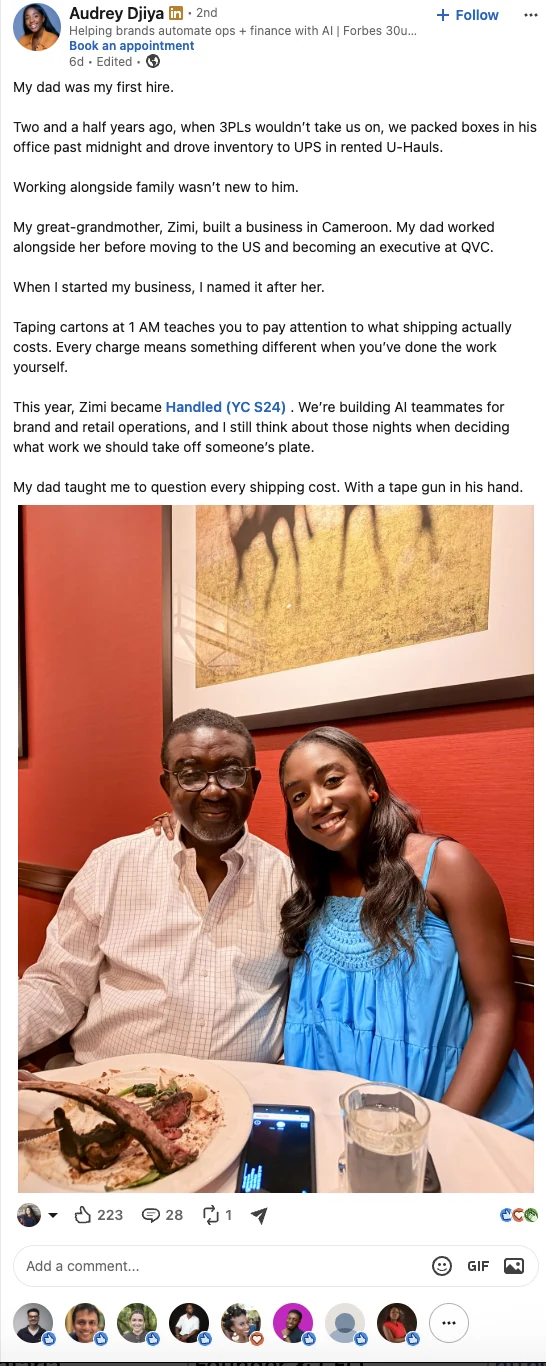
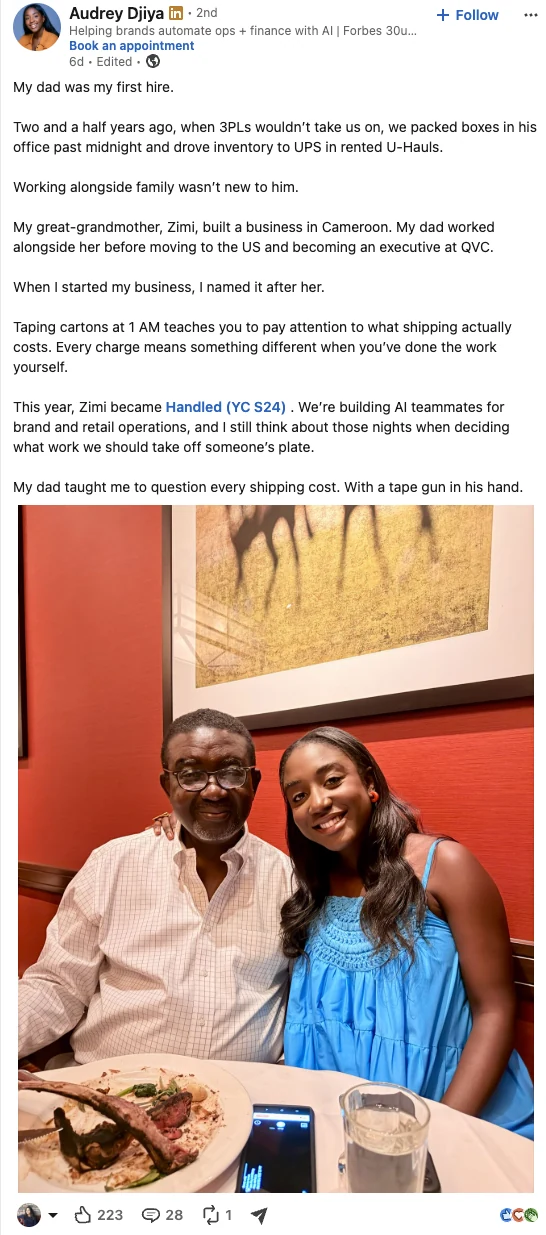
Leeroo page: restore doc copy, tighter post screenshots
Claude-Session: https://claude.ai/code/session_01GFJDcdEwhaC3mF1JBPngzg

diff --git a/leeroo.html b/leeroo.html
@@ -71,7 +71,8 @@ figcaption a{font-weight:700;color:var(--ink)}
 .two{display:grid;grid-template-columns:repeat(2,minmax(0,1fr));gap:24px}
 .two figure{margin-top:28px}
 
-.posts{display:grid;grid-template-columns:repeat(3,minmax(0,1fr));gap:20px;align-items:start;margin-top:32px}
+.posts{display:grid;grid-template-columns:repeat(3,minmax(0,1fr));gap:12px;align-items:start;max-width:860px;margin:28px auto 0}
+.posts figcaption{margin-top:8px;font-size:15px}
 .posts figure{margin:0}
 .posts img{border-radius:8px}
 .months{display:grid;grid-template-columns:repeat(3,minmax(0,1fr));gap:18px;margin-top:28px}
@@ -129,13 +130,13 @@ footer a{color:var(--muted)}
 <section class="letter">
   <div class="wrap narrow note">
     <p class="hey">Hey Majid,</p>
-    <p>It was great chatting last week and thanks for walking us through Leeroo. Honestly the telecom project is super impressive, especially how much you guys got done and how fast.</p>
-    <p>I think the big thing right now is landing 2 to 3 more enterprise customers with similar problems. That’s how we figure out who’s actually buying, which use cases land and what messaging works, so the telecom deal isn’t a one-off.</p>
-    <p>Here’s roughly how Khaled and I would think about the next 90 days. Nothing here is set in stone, we’ll learn a ton as we go and adjust.</p>
+    <p>Great chatting last week, and thanks for walking us through Leeroo. The telecom project is impressive, especially the scope of the work and how quickly you delivered it.</p>
+    <p>I think the next step is finding 2 to 3 more enterprise customers with similar problems. That’s what will tell us which buyers, use cases and messages are repeatable.</p>
+    <p>Here’s how Khaled and I would approach the next 90 days. It’s a starting point, and we’d adjust as we learn.</p>
   </div>
   <div class="wrap narrow goal philo">
     <b>Our philosophy</b>
-    <p>We really care about our craft. That said, it’s still early, so we can’t guarantee outputs like a set number of meetings or deals yet. What we can guarantee is best in class inputs: outbound, social, copy, website and sales assets. We’ll do those really well every week and be super transparent about what’s working and what’s not.</p>
+    <p>We really care about our craft. Since everything is still early, we can only guarantee inputs, not outputs. What we do guarantee is best in class inputs: social, outbound, copy, website and sales assets.</p>
   </div>
 </section>
 
@@ -143,11 +144,11 @@ footer a{color:var(--muted)}
   <div class="wrap">
     <span class="num">01 · Case study</span>
     <h2>Turn the telecom project into a real case study</h2>
-    <p class="lead">This was a big deal with serious buyers, so the case study should feel just as polished as the work you did. We’d make it really visual and easy to share around.</p>
+    <p class="lead">This is a big deal and serious buyer, so the case study needs to feel as sophisticated as the work. We’d make it visual.</p>
     <div class="grid3">
-      <div class="tile"><span class="n">1</span><h3>Talk to your customer</h3><p>Figure out what problem they were trying to solve, why they went with you guys, and what results they actually cared about.</p></div>
-      <div class="tile"><span class="n">2</span><h3>Write and design it</h3><p>Tell the story around their problem and what changed after.</p></div>
-      <div class="tile"><span class="n">3</span><h3>Homepage and pitch</h3><p>Rewrite the top of your homepage and put together a one-pager you can use on enterprise calls.</p></div>
+      <div class="tile"><span class="n">1</span><h3>Interview the customer</h3><p>Sit down with your customer (with their OK): what they were trying to solve, why they picked Leeroo, and which results actually mattered to them.</p></div>
+      <div class="tile"><span class="n">2</span><h3>Write and design it</h3><p>Write and design the case study around that problem and the outcome.</p></div>
+      <div class="tile"><span class="n">3</span><h3>Homepage and pitch</h3><p>Rewrite your homepage opening and put together a one-page pitch you can use in enterprise calls.</p></div>
     </div>
     <!-- Add: screenshot of an example case study page we've designed -->
     <!-- Add: screenshots of landing pages we're working on for other clients -->
@@ -158,10 +159,10 @@ footer a{color:var(--muted)}
   <div class="wrap">
     <span class="num">02 · Sales coaching</span>
     <h2>Onboarding and sales coaching</h2>
-    <p class="lead">Leeroo does a lot, which is honestly a good problem to have. But on a first call buyers just need the short version. We want the pitch tight enough that someone could repeat it to their boss after one call.</p>
-    <p>We’d also spend real time on discovery calls, like what to ask, how to qualify, and how to run a demo that actually ends in a next step. This makes a huge difference on enterprise deals.</p>
+    <p class="lead">Leeroo does a lot, which is a good problem to have. But on a first call the buyer needs the short version. The goal is a pitch tight enough that someone can repeat it to their boss after one conversation.</p>
+    <p>We’d also spend real time on discovery calls: what to ask, how to qualify, and how to run a demo that ends with a next step. Most technical founders never get walked through this, and it makes a big difference on enterprise deals.</p>
     <div class="grid3">
-      <div class="tile"><span class="n">Day 1</span><h3>Positioning</h3><p>Who it’s for, what it does, and how to say it in 1 to 2 sentences.</p></div>
+      <div class="tile"><span class="n">Day 1</span><h3>Positioning</h3><p>Who it’s for, what it does, the 1 to 2 sentence version.</p></div>
       <div class="tile"><span class="n">Day 2</span><h3>Discovery and demos</h3><p>Role-playing real calls until it feels natural.</p></div>
       <div class="tile"><span class="n">Day 3</span><h3>Sales assets</h3><p>One-pager, deck, follow-up emails, and a simple process to run sales.</p></div>
     </div>
@@ -176,8 +177,8 @@ footer a{color:var(--muted)}
   <div class="wrap">
     <span class="num">03 · Outbound</span>
     <h2>Find your next 2 to 3 enterprise customers</h2>
-    <p class="lead">We’d go after companies that look a lot like your telecom customer and have a reason to buy now. Think an active legacy migration, open data platform roles, or a data leader posting about AI projects getting stuck. I’d start with banking, finance and healthcare.</p>
-    <p>We build the lists and do all the research ourselves (scraping, enrichment, lots of automation), so every message is written for that specific company, not blasted out to thousands of people. For the first few, I’d lead with getting the project done vs. pitching the platform.</p>
+    <p class="lead">We’d go after companies that look like your telecom customer and have a reason to move now, like an active legacy migration, open data platform roles, or a data leader posting about AI projects stalling. We build the lists and do the research ourselves (scraping, enrichment, a lot of automation), so every message is written for that company instead of blasted to thousands of people.</p>
+    <p>For these first few, I’d lead with the outcome (getting the migration done) more than the platform. Buyers get that right away, and it opens the door to the next project.</p>
     <!-- Add: screenshot of our HeyReach campaign results -->
     <!-- Add: screenshot of a Clay or n8n workflow we built for account research -->
   </div>
@@ -187,28 +188,27 @@ footer a{color:var(--muted)}
   <div class="wrap">
     <span class="num">04 · Content and one creative campaign</span>
     <h2>Founder content and one creative campaign</h2>
-    <p class="lead">We’d hop on a quick call with you each week and turn it into 2 to 3 LinkedIn posts for you and Alireza. Khaled runs this side and you approve everything before it goes out.</p>
-    <p>The posts would be for the people actually buying Leeroo, probably CIOs, heads of data and innovation leads at big telecom, banking and healthcare companies. Some ideas to start:</p>
+    <p class="lead">We’d do a short call with you each week and turn it into 2 to 3 LinkedIn posts for you and Alireza. Khaled leads this side, and you approve everything before it goes out.</p>
+    <p>The posts would be written for the people who actually buy Leeroo, probably CIOs, heads of data and data platform leads at large companies in telecom, banking and healthcare. A few we’d start with:</p>
     <ul class="topics">
       <li>What we learned moving 1,000+ tables and 100+ Power BI reports in 8 weeks</li>
-      <li>Why general-purpose agents hit a wall on specialized data work</li>
-      <li>What a CIO should ask before letting AI agents touch production data</li>
-      <li>Why your agents should learn inside your own cloud (and why banks and hospitals care)</li>
+      <li>Why big data migrations take a year, and where the time actually goes</li>
+      <li>What a CIO should ask before letting AI agents near production data</li>
+      <li>Why your agents should run in your own cloud, and why that matters for banks and hospitals</li>
     </ul>
-    <h3 class="sub-h">One creative campaign</h3>
-    <p>We’d also do one creative campaign to get in front of buyers who don’t really respond to outbound. Could be a small dinner with 8 to 12 data leaders, or something a little more out there like dropping off croissants at target accounts. We’ve done both, and we’d pick whichever fits where your buyers actually are.</p>
+    <p>We’d also run one creative campaign to get in front of buyers who are hard to reach through outbound. That could be a small dinner with 8 to 12 data leaders, or something less conventional, like delivering croissants to target accounts. We’ve done both before, and we’d pick based on where the right buyers are most likely to engage.</p>
     <div class="posts">
       <figure>
-        <img src="leeroo-assets/post-audrey.webp" alt="Audrey Djiya's LinkedIn post for Handled (YC S24): 223 likes, 28 comments" loading="lazy" width="546" height="1366">
-        <figcaption>Founder content for Handled (YC S24), 223 likes. <a href="https://www.linkedin.com/posts/audrey-djiya-7a7a24101_my-dad-was-my-first-hire-two-and-a-half-share-7515746916018692096-XxJE/" target="_blank" rel="noopener">See the post</a></figcaption>
+        <img src="leeroo-assets/post-audrey.webp" alt="Audrey Djiya's LinkedIn post for Handled (YC S24): 223 likes, 28 comments" loading="lazy" width="546" height="1235">
+        <figcaption><a href="https://www.linkedin.com/posts/audrey-djiya-7a7a24101_my-dad-was-my-first-hire-two-and-a-half-share-7515746916018692096-XxJE/" target="_blank" rel="noopener">See the post on LinkedIn</a></figcaption>
       </figure>
       <figure>
-        <img src="leeroo-assets/post-dinner.webp" alt="Kaushik Mahorker's LinkedIn post about an executive dinner for Wildcard: 48 likes, 8 comments" loading="lazy" width="886" height="1318">
-        <figcaption>Exec dinner we put together for Wildcard. <a href="https://www.linkedin.com/feed/update/urn:li:ugcPost:7506832695390281728" target="_blank" rel="noopener">See the post</a></figcaption>
+        <img src="leeroo-assets/post-dinner.webp" alt="Kaushik Mahorker's LinkedIn post about an executive dinner for Wildcard: 48 likes, 8 comments" loading="lazy" width="886" height="1150">
+        <figcaption><a href="https://www.linkedin.com/feed/update/urn:li:ugcPost:7506832695390281728" target="_blank" rel="noopener">See the post on LinkedIn</a></figcaption>
       </figure>
       <figure>
-        <img src="leeroo-assets/post-croissant.webp" alt="Khaled's LinkedIn post about delivering croissants to SF brands: 88 likes, 24 comments" loading="lazy" width="550" height="1366">
-        <figcaption>Khaled’s croissant run, got in the door at 9 of 10 offices. <a href="https://www.linkedin.com/feed/update/urn:li:share:7498431760192671744" target="_blank" rel="noopener">See the post</a></figcaption>
+        <img src="leeroo-assets/post-croissant.webp" alt="Khaled's LinkedIn post about delivering croissants to SF brands: 88 likes, 24 comments" loading="lazy" width="550" height="1135">
+        <figcaption><a href="https://www.linkedin.com/feed/update/urn:li:share:7498431760192671744" target="_blank" rel="noopener">See Khaled’s post on LinkedIn</a></figcaption>
       </figure>
     </div>
   </div>
@@ -219,24 +219,22 @@ footer a{color:var(--muted)}
     <span class="num">The 90 days</span>
     <div class="months">
       <div class="month"><b>MONTH 1</b><h3>Build GTM Systems</h3><ul><li>Customer interview</li><li>Case study and homepage</li><li>Sales coaching</li><li>First outbound and content</li></ul></div>
-      <div class="month"><b>MONTH 2</b><h3>Schedule Meetings Consistently</h3><ul><li>Test new segments</li><li>Discovery calls and demos together</li><li>Creative campaign</li><li>Follow-up automations</li></ul></div>
-      <div class="month"><b>MONTH 3</b><h3>Improve Sales Process</h3><ul><li>Double down on what’s working</li><li>Help close live deals</li><li>Tighten who you sell to</li><li>Write down the playbook</li></ul></div>
+      <div class="month"><b>MONTH 2</b><h3>Schedule Meetings Consistently</h3><ul><li>Test new segments</li><li>Discovery and demos together</li><li>Creative campaign</li><li>Follow-up automations</li></ul></div>
+      <div class="month"><b>MONTH 3</b><h3>Improve Sales Process</h3><ul><li>Scale what’s working</li><li>Support live deals</li><li>Refine who you sell to</li><li>Write down the playbook</li></ul></div>
     </div>
-    <p class="target">We’d aim for 10 to 15 qualified demos, but we’ll revisit that after month 1 once we see real numbers.</p>
+    <p class="target">Our rough target is 10 to 15 qualified demos, but we’ll revisit that after Month 1 once we have real numbers.</p>
   </div>
 </section>
 
 <section class="block soft">
   <div class="wrap narrow">
     <span class="num">How we’d work together</span>
-    <h2>A weekly call and a shared Slack</h2>
-    <p>We’d do a call every week to go over what went out, what we learned and what’s next, and keep a shared Slack channel for everything in between.</p>
+    <p>We’d do one call a week to go over what went out, what we learned and what’s next, plus a shared Slack channel.</p>
     <div class="goal">
-      <b>Where we want to be after 90 days</b>
-      <p>A pitch that’s way easier to explain, a few more customers to point to, a steady flow of good conversations, and a much better sense of what it takes to close the next big deal.</p>
+      <b>The goal after 90 days</b>
+      <p>A clearer pitch, proof from more customers, a repeatable way to generate qualified conversations, and a better understanding of what it takes to close the next enterprise deal.</p>
     </div>
-    <p style="margin-top:28px">If this sounds right, let’s go through it on our call and figure out where to start.</p>
-    <p class="sign">Priyanka &amp; Khaled</p>
+    <p style="margin-top:28px">If this direction makes sense, we can go through it together on our call and figure out where to start.</p>
   </div>
 </section>
 
